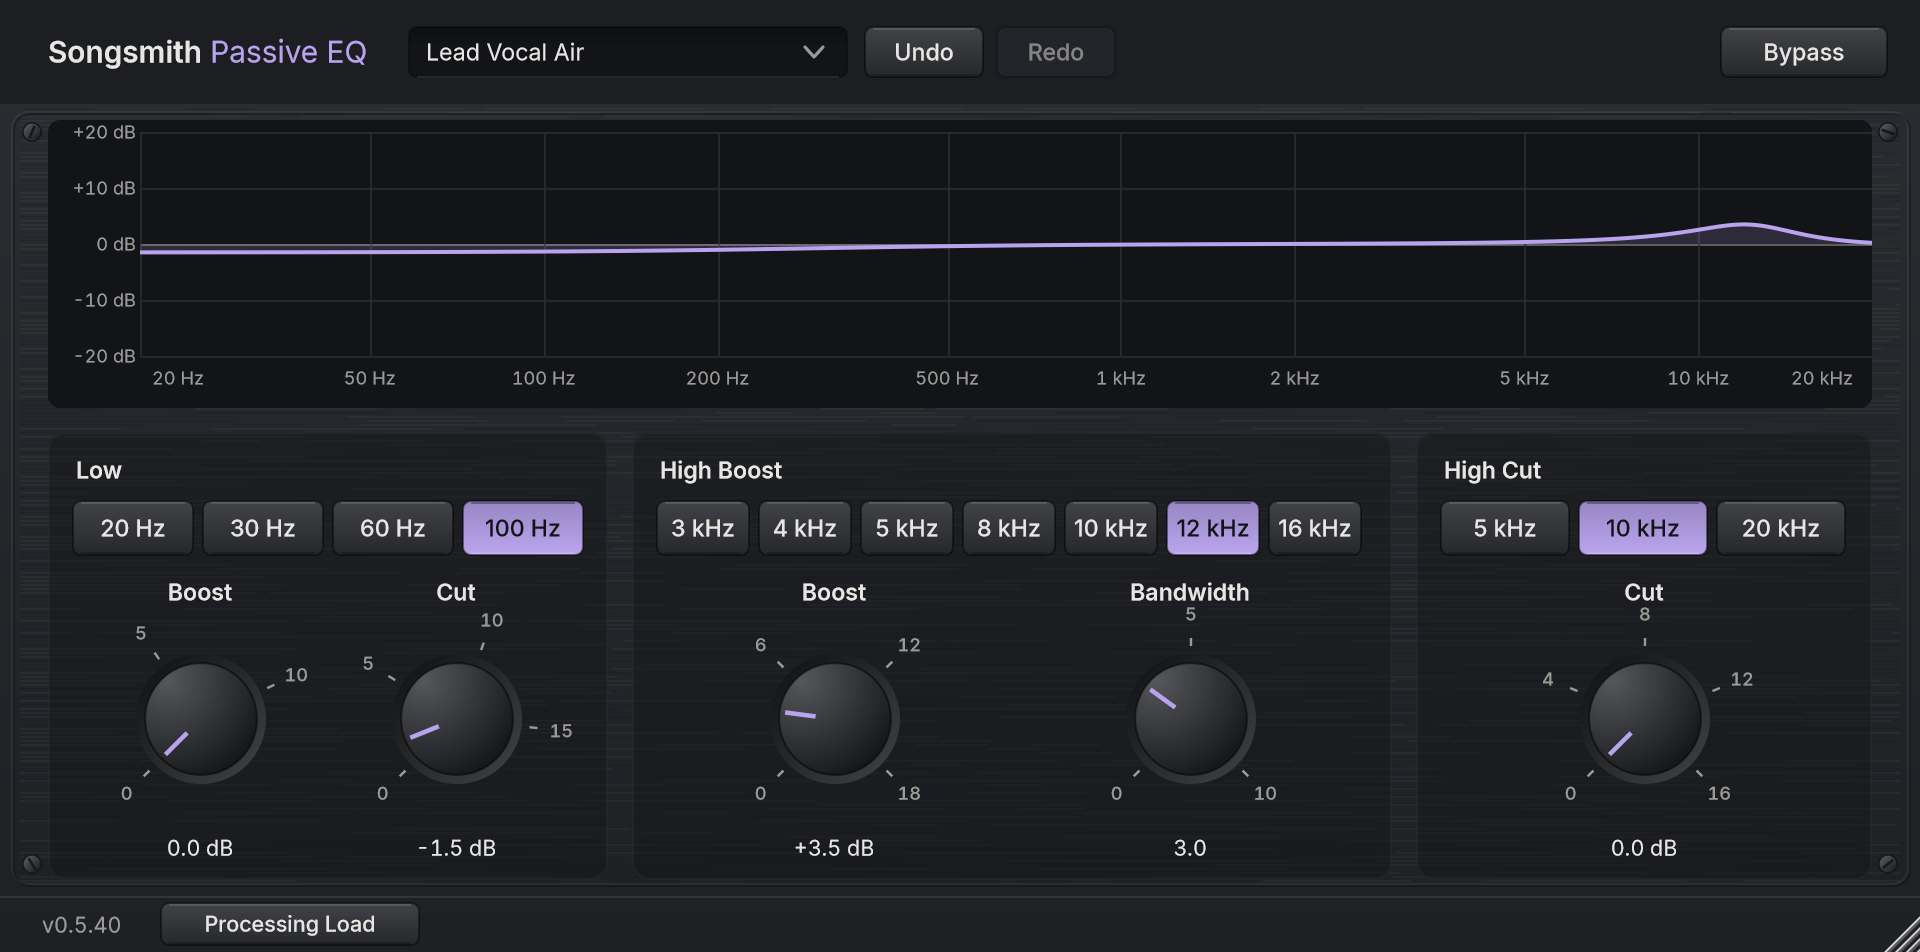
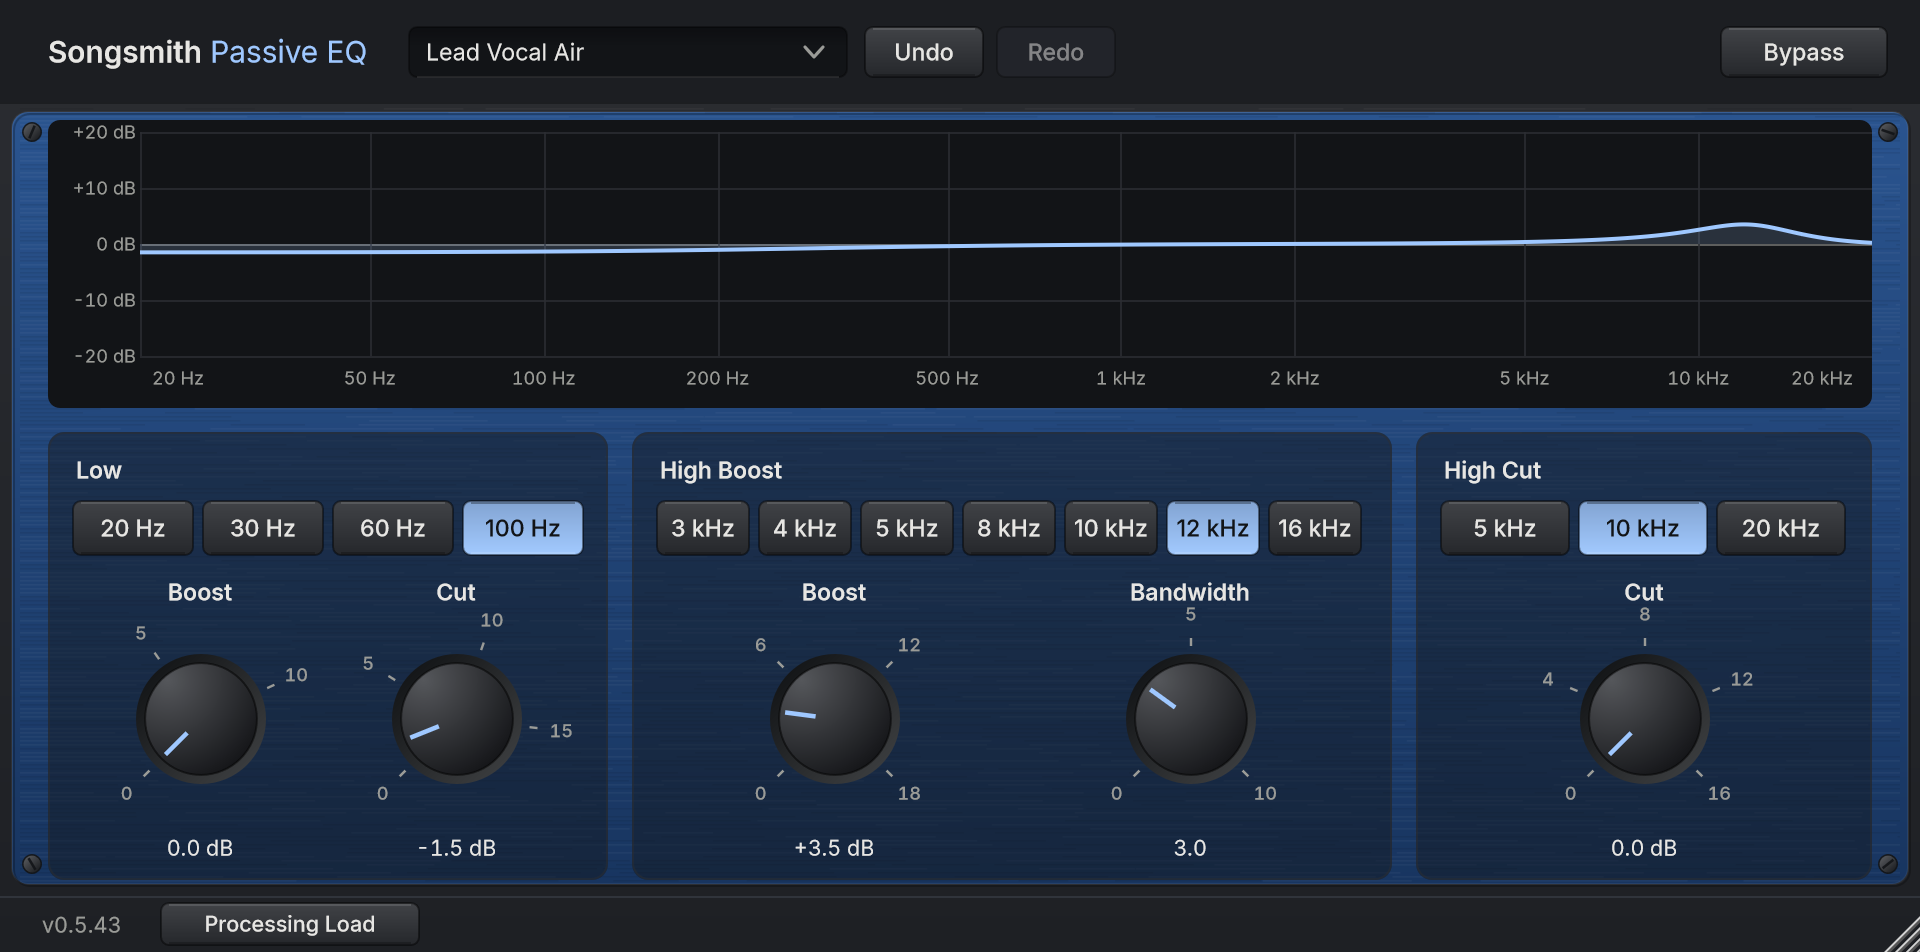
PEQ-02: Songsmith Passive EQ blue textured faceplate

diff --git a/pultec-eq/Tests/PassiveEQTests.cpp b/pultec-eq/Tests/PassiveEQTests.cpp
@@ -3,6 +3,7 @@
 #include <juce_audio_processors/juce_audio_processors.h>
 #include <cmath>
 #include <random>
+#include <set>
 #include "PluginProcessor.h"
 #include "PluginEditor.h"
 #include "../../shared/Tests/SongsmithControlSheet.h"
@@ -671,6 +672,28 @@ public:
             expectEquals (getParam (p, Peq::lowBoostId), 0.0f, "one Undo restores everything the preset changed");
             expectEquals (getParam (p, Peq::lowCutId), 0.0f);
             expectEquals (getParam (p, Peq::lowFrequencyId), (float) Peq::defaultLowFrequency);
+        }
+
+        beginTest ("The faceplate is blue and textured, not flat, and the title bar keeps the suite's neutral look");
+        {
+            SongsmithPassiveEQProcessor p;
+            auto ed = make (p, Peq::EditorLayout::defaultWidth);
+            const auto image = ed->createComponentSnapshot (ed->getLocalBounds(), true, 1.0f);
+            // The strip of faceplate left of the first group, between the screws, over a tall stretch.
+            int bluer = 0, samples = 0;
+            std::set<juce::uint32> distinct;
+            for (int y = 200; y < 380; ++y)
+                for (int x = 9; x < 13; ++x)
+                {
+                    const auto c = image.getPixelAt (x, y);
+                    ++samples;
+                    bluer += c.getBlue() > c.getRed() + 30 && c.getBlue() > c.getGreen() + 10 ? 1 : 0;
+                    distinct.insert (c.getARGB());
+                }
+            expect (bluer > samples * 9 / 10, "the faceplate is clearly blue: " + juce::String (bluer) + " of " + juce::String (samples));
+            expect (distinct.size() > 8, "with a grain and a shaded gradient, not a flat fill: " + juce::String ((int) distinct.size()) + " colours");
+            const auto titleBar = image.getPixelAt (700, 10);
+            expect (std::abs (titleBar.getBlue() - titleBar.getRed()) < 20, "the suite's title bar stays neutral");
         }
     }
 };

diff --git a/pultec-eq/Source/PluginEditor.cpp b/pultec-eq/Source/PluginEditor.cpp
@@ -316,13 +316,15 @@ void SongsmithPassiveEQEditor::paintContent (juce::Graphics& g)
     const auto r = juce::Rectangle<float> (0.0f, 0.0f, (float) designWidth, (float) designHeight);
     Songsmith::UI::LookAndFeelBase::drawPanel (g, r);
 
-    // Faceplate: a fine brushed grain, a lit inner edge and four screws. All vector, so it scales.
+    // Faceplate: blue, with the suite's fine brushed grain over it, a lit inner edge and four screws. All vector, so it scales.
     {
-        static const Grain grain;
-        grain.draw (g);
-
         const auto plate = juce::Rectangle<float> (6.0f, (float) Songsmith::UI::titleBarHeight + 4.0f, (float) designWidth - 12.0f,
                                                    (float) contentHeight - (float) Songsmith::UI::titleBarHeight - 10.0f);
+        g.setGradientFill (juce::ColourGradient (Colours::plateTop, 0.0f, plate.getY(), Colours::plateBottom, 0.0f, plate.getBottom(), false));
+        g.fillRoundedRectangle (plate, 8.0f);
+
+        static const Grain grain;
+        grain.draw (g);
         g.setColour (juce::Colours::white.withAlpha (0.06f));
         g.drawRoundedRectangle (plate, 8.0f, 1.0f);
         g.setColour (juce::Colours::black.withAlpha (0.25f));

diff --git a/pultec-eq/Source/PeqLookAndFeel.h b/pultec-eq/Source/PeqLookAndFeel.h
@@ -17,8 +17,11 @@ namespace Peq::UI
         inline const juce::Colour recess     = Songsmith::UI::Colours::recess;
         inline const juce::Colour text       = Songsmith::UI::Colours::text;
         inline const juce::Colour textDim    = Songsmith::UI::Colours::textDim;
-        // ...and this plugin's accent (a soft lavender).
-        inline const juce::Colour accent     { 0xffb9a3ee };
+        // ...this plugin's accent (a soft sky blue, lighter than the compressor's blue themes)...
+        inline const juce::Colour accent     { 0xff9fc8ff };
+        // ...and the blue of its textured faceplate (PEQ-02): deeper at the bottom, lit from the top.
+        inline const juce::Colour plateTop    { 0xff2a548f };
+        inline const juce::Colour plateBottom { 0xff183560 };
     }
 
     // The shared Songsmith typeface and type scale (shared/Source/SongsmithType.h).

diff --git a/CHANGELOG.md b/CHANGELOG.md
@@ -2,6 +2,10 @@
 
 Every Songsmith plugin, installer and release shares one version number, kept in the `VERSION` file. Each version has one release on the [Releases page](https://github.com/tonygward/audio-plugins/releases), tagged `vX.Y.Z`. Releases from before one shared version keep the tags they had (`v0.2.0` to `v0.4.0`, `compressor-v0.1.0`, `maximizer-v0.1.0`, `studio-v1.0.0`), and the plugin changelogs ([Songsmith EQ](eq/CHANGELOG.md), [Songsmith Maximiser](maximiser/CHANGELOG.md)) hold their earlier entries. Versions 1.1.0 to 1.3.8 came first: the suite was then renumbered to 0.5.0, which is why the numbers below 0.5.0 are higher.
 
+## Unreleased
+
+- Songsmith Passive EQ now has a blue, textured faceplate with a matching soft blue accent, instead of the plain dark grey. Everything works exactly as before, and you do not need to do anything.
+
 ## 0.5.43
 
 - New plugin: **Songsmith Bus Compressor**, a compressor for gluing a mix or a group of sounds together, inspired by a classic mixing desk bus compressor. It has Threshold, Ratio (2:1, 4:1 or 10:1), Attack (0.1 to 30 ms), Release (0.1 to 1.2 seconds, or Auto) and Make-up Gain, and both channels always get the same gain so the stereo picture holds. A row of lamps shows how much it is turning the sound down. It comes with five starting points (Mix Bus Glue, Finished Mix Gentle Glue, Drum Bus Punch, Drum Bus Heavy Control and Vocal Group Glue) and saved custom presets. It is in both suite installers with its own tick box. It has not yet been tried in a real recording program. You do not need to do anything; tick it in the installer if you want it.
